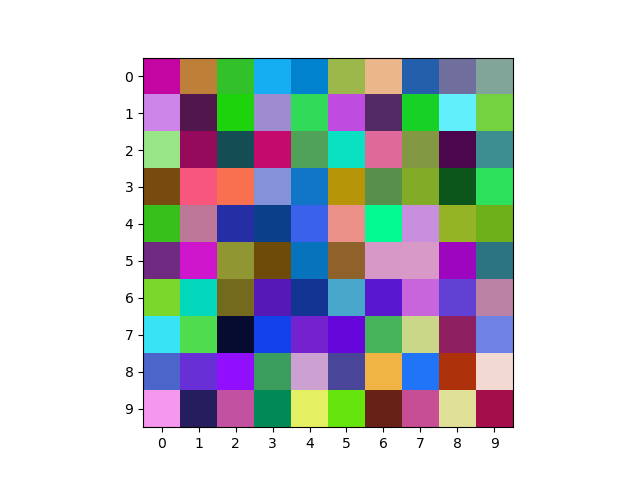
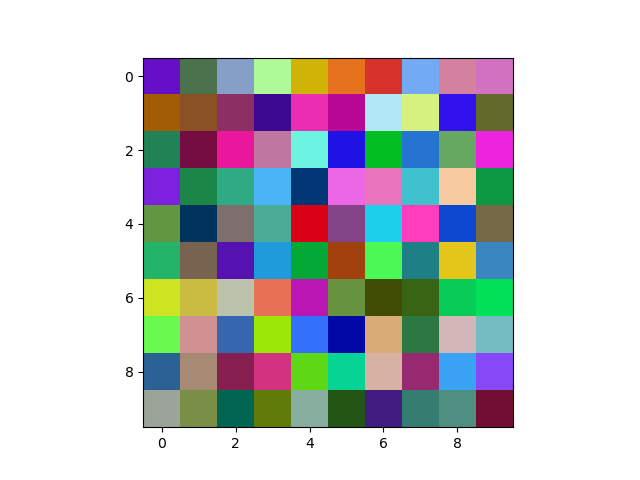
add config yaml file, minor tidy up

diff --git a/train.py b/train.py
@@ -1,6 +1,6 @@
 import numpy as np
 import utils
-from test import test_grid
+import yaml
 
 
 def initialise_grid(grid_width, grid_height):
@@ -104,7 +104,7 @@ def update_node_weights(node_weights, lr, influence, input_vector):
     return node_weights + lr * influence * (input_vector - node_weights)
 
 
-def train(radius, grid, max_iter, input_matrix, learning_rate, grid_width, grid_height):
+def train(radius, grid, input_matrix, max_iter, learning_rate, grid_width, grid_height):
     # Initialise
     trained_grid = grid
 
@@ -128,29 +128,32 @@ def train(radius, grid, max_iter, input_matrix, learning_rate, grid_width, grid_
 
 if __name__ == "__main__":
     # Set random seed
-    np.random.seed(10)
+    np.random.seed(40)
 
-    # Initialise training params
-    grid_width = 9  # zero-based indexing
-    grid_height = 9  # zero-based indexing
-    max_iter = 500  # risky, if 0 then runtime error because radius is 0, and log(0) in update_lr
-    learning_rate = 0.1
+    # Get params
+    with open("config.yaml", "r") as f:
+        config = yaml.safe_load(f)
 
-    grid = initialise_grid(grid_width, grid_height)
-    input_matrix = np.random.rand(20, 3)
-    initial_radius = max(grid_width, grid_height) / 2
+    # Setup training inputs
+    grid = initialise_grid(config["grid_width"], config["grid_height"])
+    initial_radius = max(config["grid_width"], config["grid_height"]) / 2
+    input_matrix = np.random.rand(
+        config["num_input_vectors"], config["dim_of_input_vector"]
+    )
 
+    # Plot before
     utils.plot_pixel_grid(grid, "plot_of_initial_grid.png")
 
     # Train
     trained_grid = train(
         initial_radius,
         grid,
-        max_iter,
         input_matrix,
-        learning_rate,
-        grid_width,
-        grid_height,
+        config["max_iter"],
+        config["learning_rate"],
+        config["grid_width"],
+        config["grid_height"],
     )
 
+    # Plot after
     utils.plot_pixel_grid(trained_grid, "plot_of_trained_grid.png")

diff --git a/utils.py b/utils.py
@@ -53,12 +53,13 @@ def plot_pixel_grid(pixel_dict, filename):
     # Set ticks as integers
     min_x = min(key[0] for key in pixel_dict.keys())
     min_y = min(key[1] for key in pixel_dict.keys())
-    plt.xticks(np.arange(min_x, max_x + 1, 1))
-    plt.yticks(np.arange(min_y, max_y + 1, 1))
+
+    tick_step = 2
+    plt.xticks(np.arange(min_x, max_x + 1, tick_step))
+    plt.yticks(np.arange(min_y, max_y + 1, tick_step))
 
     # Display the pixel grid
     plt.imshow(pixel_grid)
-    # plt.axis("off")
     plt.savefig(
         filename
     )  # https://stackoverflow.com/questions/9012487/savefig-outputs-blank-image
